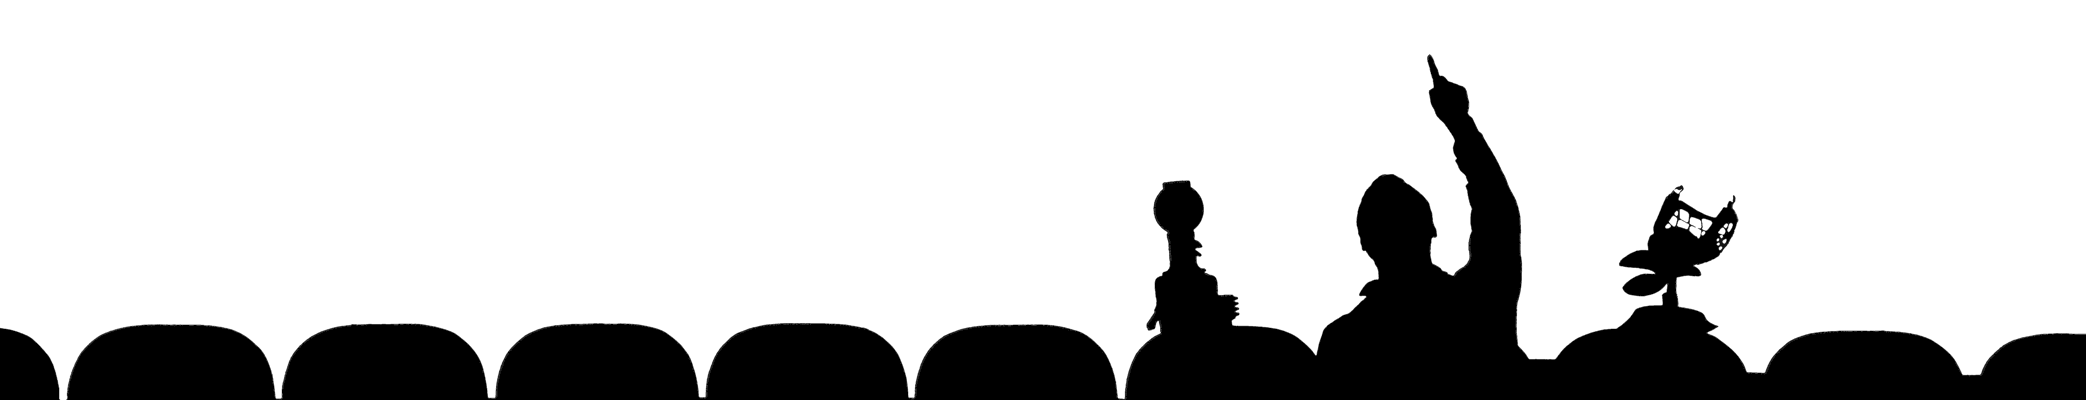
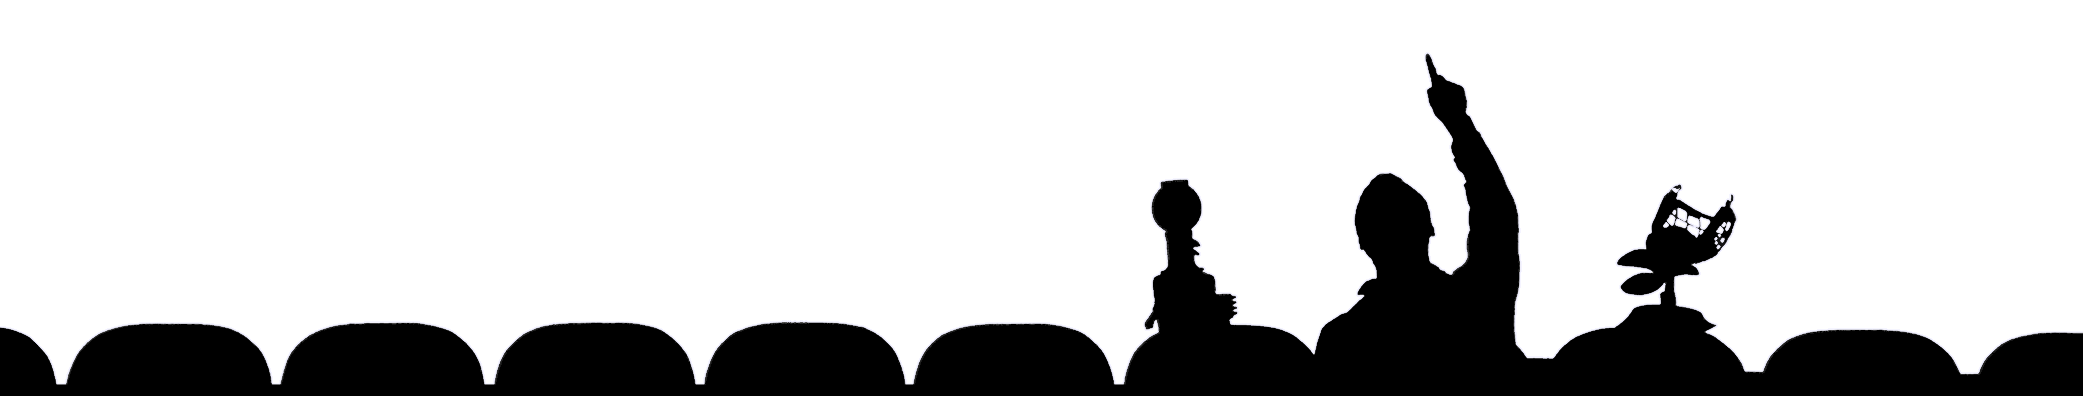
Small style update.

diff --git a/assets/css/main.css b/assets/css/main.css
@@ -722,9 +722,9 @@ span.gray {
 
 .copySymbol {
   position: absolute;
-  right: 5px;
+  right: 10px;
   transition: 800ms;
-  font-size: 1.2em; }
+  font-size: 1.5em; }
 
 .copySymbol:hover {
   transition: 800ms;
@@ -741,7 +741,7 @@ span.gray {
   padding: 1em;
   position: absolute;
   font-style: italic;
-  right: -20px;
+  right: -15px;
   transition: 800ms; }
 
 div.highlight {
@@ -769,8 +769,7 @@ pre.highlight {
   margin-right: -0.15em; }
 
 #mst3k {
-  width: 100%;
-  margin-bottom: -0.6em; }
+  width: 100%; }
 
 .circle {
   padding: 1em;

diff --git a/assets/css/main.scss b/assets/css/main.scss
@@ -833,9 +833,9 @@ span.gray {
 
 .copySymbol {
     position: absolute;
-    right: 5px;
+    right: 10px;
     transition: $tran;
-    font-size: 1.2em;
+    font-size: 1.5em;
 }
 
 .copySymbol:hover {
@@ -854,7 +854,7 @@ span.gray {
     padding: 1em;
     position: absolute;
     font-style: italic;
-    right: -20px;
+    right: -15px;
     transition: $tran;
 }
 
@@ -890,7 +890,6 @@ pre.highlight {
 
 #mst3k {
     width:100%;
-    margin-bottom: -0.6em;
 }
 
 .circle {

diff --git a/code/index.md b/code/index.md
@@ -38,9 +38,7 @@ Feel free to try out some programs in an interactive sandbox. Click on any of th
 
 <h1 id="security">make checksums, not war</h1>
 
-adapted from the "Verifying file integrity and its digital signature" section of <a href="https://www.voidlinux.org/download/#verifying-file-integrity-and-its-digital-signature">the Void Linux download page.</a>
-
-My GPG Keys:
+[My GPG Keys](https://pgp.mit.edu/pks/lookup?op=vindex&search=0x144F39B7AC1CC079):
 
 signer = `liam beckman ("I only want to live in peace, plant potatoes, and dream!" -Tove Jansson) <lbeckman314@gmail.com>`
 

diff --git a/_favorites/poems/example-of-recursion.md b/_favorites/poems/example-of-recursion.md
@@ -1,7 +1,7 @@
 ---
 title: Example of Recursion
 author: wharfinger
-src: https://stackoverflow.com/questions/126756/examples-of-recursive-functions/126785##126785
+src: https://everything2.com/index.pl?node_id=477013
 ---
 
 A CS professor once explained recursion as follows:
